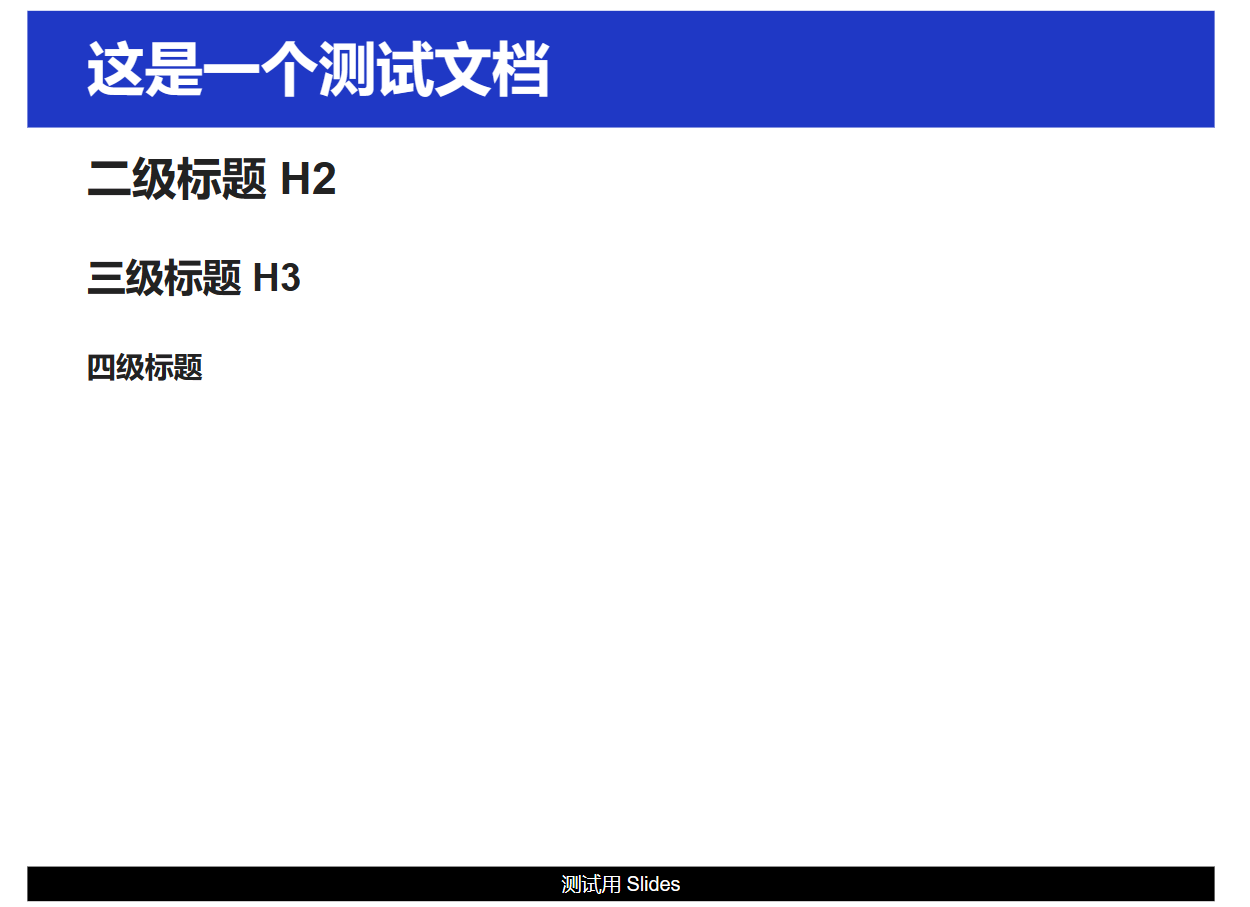
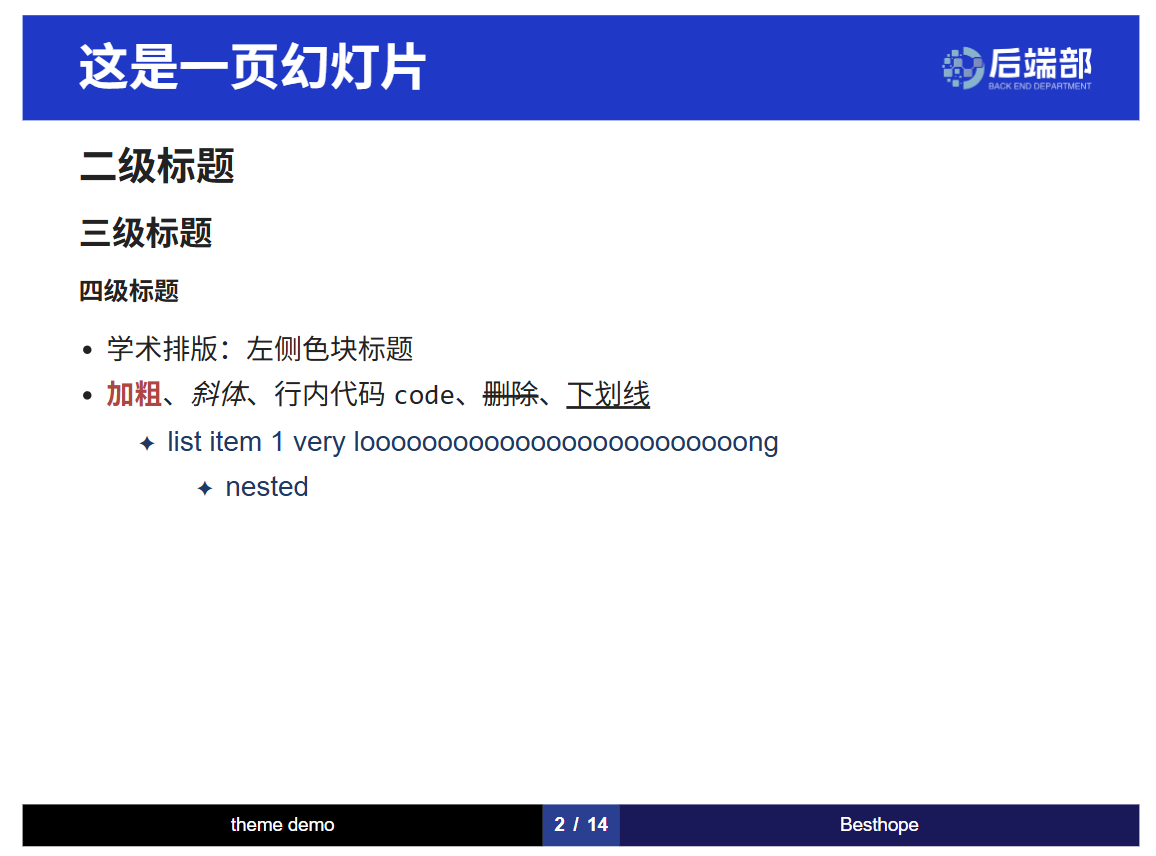
doc: update

Changed region(s): [[0.0623, 0.1519, 0.6851, 0.5771], [0.0, 0.0, 0.9965, 0.1519], [0.0, 0.9416, 0.9965, 1.0]]

diff --git a/docs/README-en.md b/docs/README-en.md
@@ -1,5 +1,57 @@
 # revealjs-academic-theme
 
-This is a reveal.js theme for academic presentations.
+[中文](/README.md) | English
 
-TBD
+## Introduction
+
+An out-of-the-box reveal.js academic theme.
+
+Features:
+
+- **Academic theme**: LaTeX Beamer style title blocks, automatic footer, KaTeX formulas (enhanced parsing), adaptive image resizing, night-owl code highlighting
+- **Simplified configuration**: a convention for producing and organizing content, with quick deployment to dist
+
+## Quick Start
+
+```bash
+pnpm install       # install revealjs
+pnpm dev           # go to http://localhost:4173/example to see a live demo
+```
+
+## Theme Configuration
+
+Put the logo you want to display (e.g., your school emblem) under assets, with separate flat and normal styles; a transparent background is recommended.
+
+## Frontmatter Configuration
+
+Each md page can be individually configured with frontmatter to control its main title, institute, and author.
+
+```yaml
+title: theme demo
+institute: 羽丘女子学园
+author: Besthope
+```
+
+## Demo
+
+[Live demo on Github Page](https://Besthope-Official.github.io/revealjs-academic-theme/example)
+
+PPT title & auto-generated footer
+
+![Title](./images/image.png)
+
+Multi-level headings
+
+![Multi-level headings](./images/image-1.png)
+
+Code
+
+![Code](./images/image-2.png)
+
+Formulas
+
+![Formula](./images/image-3.png)
+
+Images
+
+![Images](./images/image-4.png)

diff --git a/README.md b/README.md
@@ -4,4 +4,56 @@
 
 ![GitHub commit activity](https://img.shields.io/github/commit-activity/m/Besthope-Official/revealjs-academic-theme)
 
-文档: [English](/docs/README-en.md) | [中文](/docs/README-zh.md)
+中文 | [English](/docs/README-en.md)
+
+[Live demo on Github Page](https://Besthope-Official.github.io/revealjs-academic-theme/example)
+
+![标题](docs/images/image.png)
+
+## 介绍
+
+开箱即用的 reveal.js 学术主题
+
+特性:
+
+- **学术主题**: LaTeX Beamer 风格标题块、自动页脚、KaTeX 公式（解析增强）、图片自适应 resize、night-owl 代码高亮
+- **简化配置**: 约定了一套内容生产与组织方式、快速产出 dist 部署
+
+## 快速开始
+
+```bash
+pnpm install       # install revealjs
+pnpm dev           # go to http://localhost:4173/example to see a live demo
+```
+
+## 主题配置
+
+在 assets 下放你希望展示的 logo，例如学校校徽，区分扁平样式和正常样式，推荐透明背景.
+
+## Frontmatter 配置
+
+每一个 md 页都可以单独配置 frontmatter 来控制页面的主标题和机构、作者
+
+```yaml
+title: theme demo
+institute: 羽丘女子学园
+author: Besthope
+```
+
+## 演示
+
+多级标题
+
+![多级标题](docs/images/image-1.png)
+
+代码
+
+![代码](docs/images/image-2.png)
+
+公式
+
+![公式](docs/images/image-3.png)
+
+图片
+
+![图片](docs/images/image-4.png)
